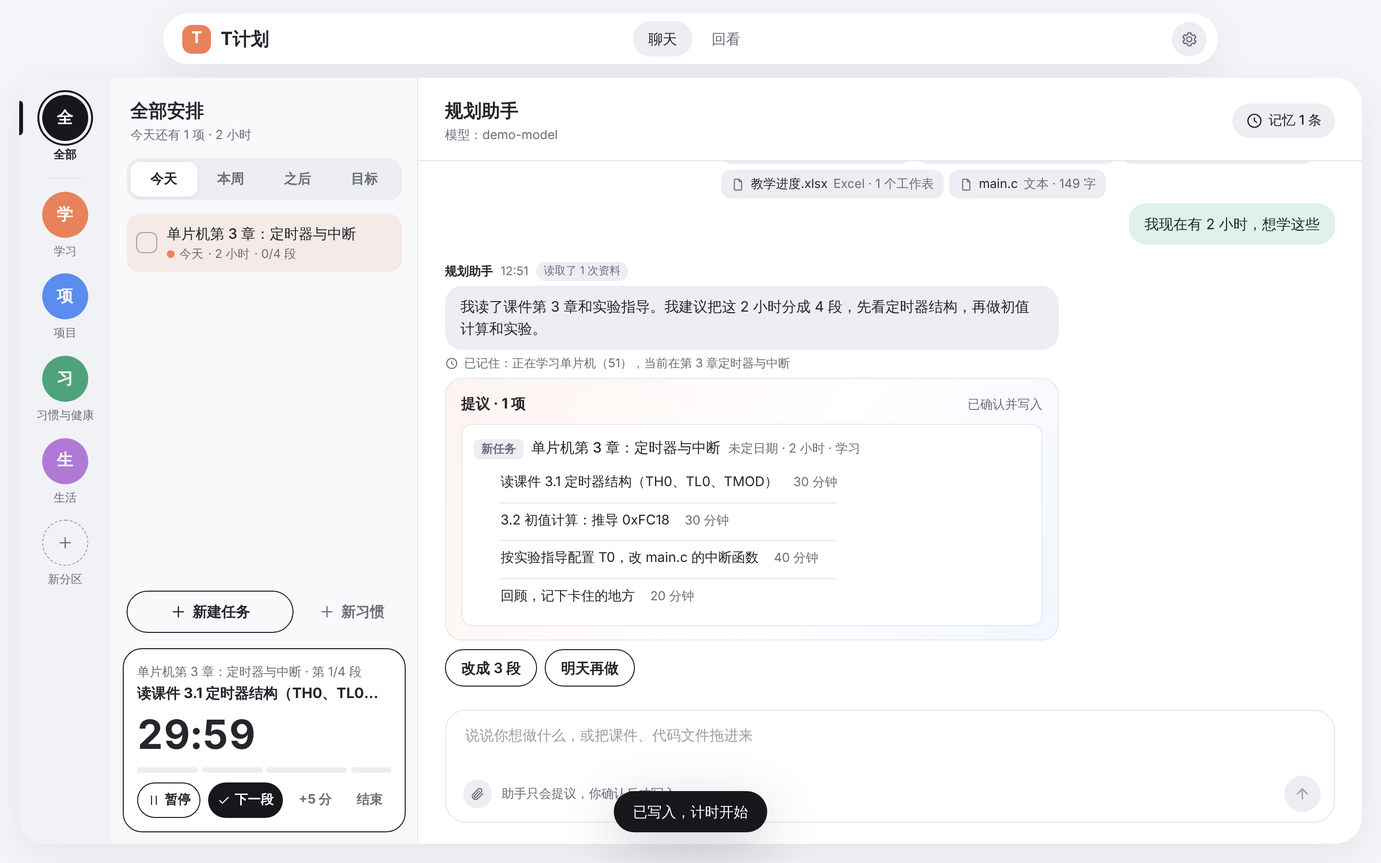
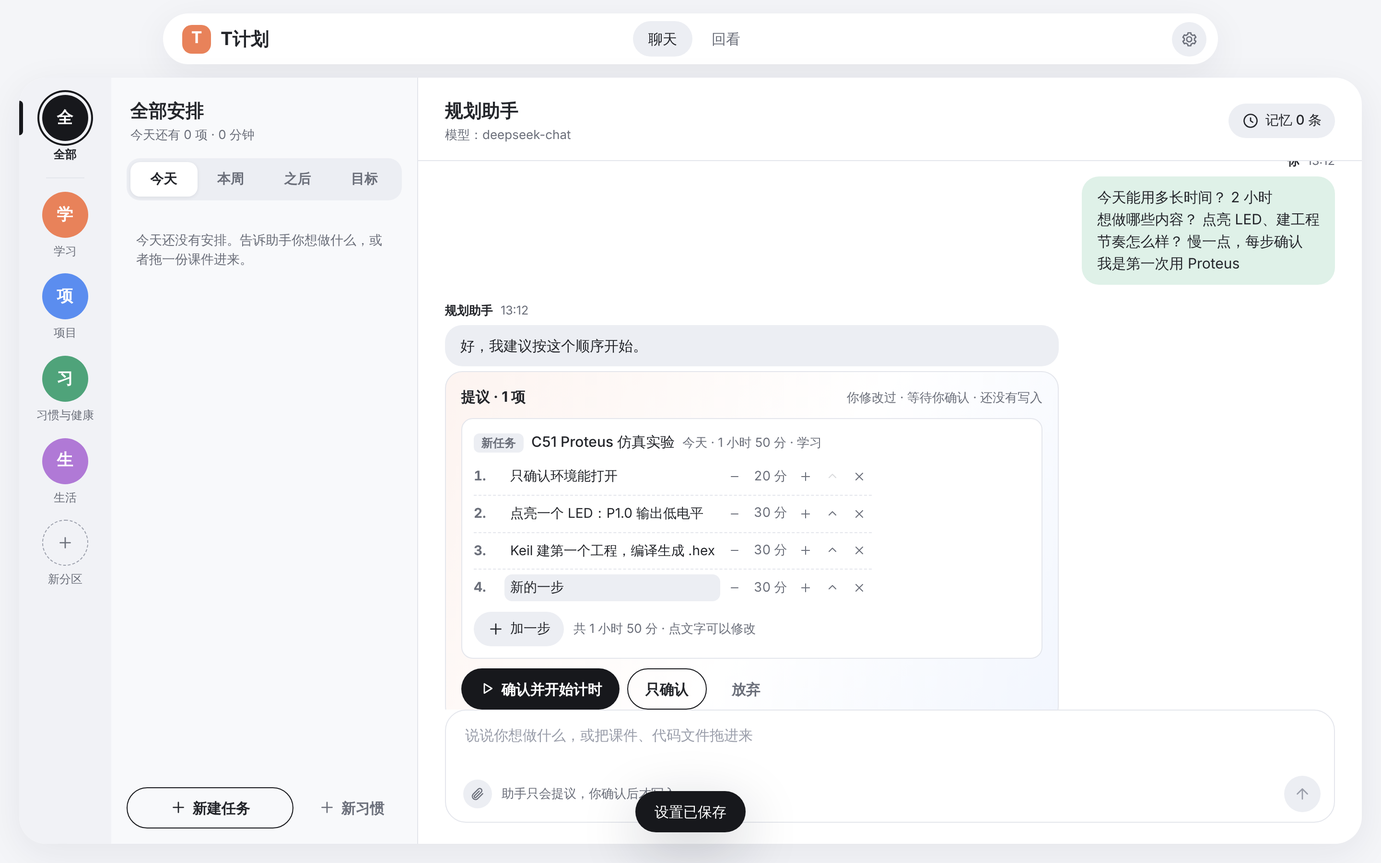
Make proposals editable, add question forms, lighten and compact the timer
Proposed steps are numbered and can be renamed, resized, reordered,
removed or added before confirming. The assistant can ask with a
pick-and-send form. The floating timer is always light and has a
compact mode that keeps the clock, step and two controls.

Claude-Session: https://claude.ai/code/session_01TEYLhYgaF7d7PWbA7WbdHM

diff --git a/v4/js/app.js b/v4/js/app.js
@@ -14,6 +14,9 @@
   const library = new Map(); // files read during this session, by name; kept out of saved state because they are large
   let pip = null; // floating timer window, when open
   let dueNotified = null;
+  let editing = null; // the proposal step whose title is being edited: { message, action, step }
+  const answers = new Map(); // unsent picks in question forms, by message id
+  let lastChatKey = '';
 
   /* ---------- storage ---------- */
   function loadState() {
@@ -71,6 +74,10 @@
     close: 'M6 6l12 12M18 6L6 18',
     pop: 'M14 4h6v6M20 4l-8 8M18 14v5a1 1 0 0 1-1 1H5a1 1 0 0 1-1-1V7a1 1 0 0 1 1-1h5',
     file: 'M14 3H7a1 1 0 0 0-1 1v16a1 1 0 0 0 1 1h10a1 1 0 0 0 1-1V7Zm0 0v4h4',
+    minus: 'M6 12h12',
+    up: 'M6 14l6-6 6 6',
+    shrink: 'M5 19h14',
+    grow: 'M8 4H4v4M16 20h4v-4M4 4l6 6M20 20l-6-6',
   };
   function icon(name) {
     const svg = document.createElementNS('http://www.w3.org/2000/svg', 'svg');
@@ -242,12 +249,37 @@
     const sp = a.spaceId ? ' · ' + (space(a.spaceId) || {}).name : '';
     return dateLabel(a.date) + ' · ' + minutesLabel(a.minutes) + sp;
   }
-  const stepList = (steps) => h('ol', { class: 'steps' }, steps.map((s) => h('li', {}, h('span', {}, s.title), h('span', { class: 'sub' }, s.minutes + ' 分钟'))));
-  function actionItem(a) {
+  const stepList = (steps) => h('ol', { class: 'steps' }, steps.map((s, i) => h('li', {}, h('span', { class: 'num' }, i + 1 + '.'), h('span', { class: 'step-title' }, s.title), h('span', { class: 'sub' }, s.minutes + ' 分钟'))));
+  /* The same list with controls: rename, change minutes, reorder, remove, add. */
+  function editableSteps(message, index, a) {
+    const steps = a.steps || [{ title: a.title, minutes: a.minutes }];
+    const edit = (op) => { try { commit(C.editProposal(state, message.id, index, op)); } catch (error) { toast(error.message); } };
+    const mini = (label, glyph, onclick, disabled) => h('button', { class: 'mini', 'aria-label': label, title: label, onclick, disabled }, icon(glyph));
+    const isEditing = (i) => editing && editing.message === message.id && editing.action === index && editing.step === i;
+    const titleInput = (s, i) => h('input', {
+      class: 'step-input', value: s.title, maxLength: 100, 'aria-label': '第 ' + (i + 1) + ' 步的内容',
+      onkeydown: (e) => { if (e.key === 'Enter') e.target.blur(); if (e.key === 'Escape') { editing = null; render(); } },
+      onblur: (e) => { if (!editing) return; editing = null; if (e.target.value.trim() && e.target.value.trim() !== s.title) edit({ kind: 'title', step: i, title: e.target.value }); else render(); },
+    });
+    return h('div', { class: 'steps-edit' },
+      h('ol', { class: 'steps' }, steps.map((s, i) => h('li', {},
+        h('span', { class: 'num' }, i + 1 + '.'),
+        isEditing(i) ? titleInput(s, i) : h('button', { class: 'step-title editable', title: '点击修改', onclick: () => { editing = { message: message.id, action: index, step: i }; render(); } }, s.title),
+        h('span', { class: 'step-tools' },
+          mini('减少 5 分钟', 'minus', () => edit({ kind: 'minutes', step: i, delta: -5 }), s.minutes <= 5),
+          h('span', { class: 'step-min' }, s.minutes + ' 分'),
+          mini('增加 5 分钟', 'plus', () => edit({ kind: 'minutes', step: i, delta: 5 })),
+          mini('上移', 'up', () => edit({ kind: 'move', step: i, dir: -1 }), i === 0),
+          mini('删除这一步', 'close', () => edit({ kind: 'remove', step: i }), steps.length <= 1))))),
+      h('div', { class: 'steps-foot' },
+        h('button', { class: 'pill soft', onclick: () => edit({ kind: 'add' }) }, icon('plus'), '加一步'),
+        h('span', { class: 'sub' }, '共 ' + minutesLabel(steps.reduce((n, s) => n + s.minutes, 0)) + ' · 点文字可以修改')));
+  }
+  function actionItem(a, index, message) {
     const name = (id) => (state.tasks.find((t) => t.id === id) || {}).title || '（任务已不存在）';
     const line = (kind, title, meta, extra) => h('li', {},
       h('div', { class: 'p-line' }, h('span', { class: 'tag t-' + a.type }, kind), h('span', { class: 'p-title' }, title), meta ? h('span', { class: 'sub' }, meta) : null), extra);
-    if (a.type === 'add_task') return line('新任务', a.title, taskSummary(a), a.steps ? stepList(a.steps) : null);
+    if (a.type === 'add_task') return line('新任务', a.title, taskSummary(a), message.proposal.status === 'pending' ? editableSteps(message, index, a) : a.steps ? stepList(a.steps) : null);
     if (a.type === 'update_task') {
       const parts = [];
       if (a.title !== undefined) parts.push('改名为「' + a.title + '」');
@@ -281,8 +313,8 @@
       } catch (error) { toast(error.message); }
     };
     return h('div', { class: 'proposal ' + p.status },
-      h('div', { class: 'proposal-head' }, h('strong', {}, '提议 · ' + p.actions.length + ' 项'), h('span', { class: 'sub' }, status)),
-      h('ul', { class: 'p-list' }, p.actions.map(actionItem)),
+      h('div', { class: 'proposal-head' }, h('strong', {}, '提议 · ' + p.actions.length + ' 项'), h('span', { class: 'sub' }, (p.edited ? '你修改过 · ' : '') + status)),
+      h('ul', { class: 'p-list' }, p.actions.map((a, i) => actionItem(a, i, message))),
       p.status === 'pending' ? h('div', { class: 'proposal-actions' },
         canTime ? h('button', { class: 'btn dark', onclick: () => resolve(true, true) }, icon('play'), '确认并开始计时') : null,
         h('button', { class: canTime ? 'btn outline slim' : 'btn dark', onclick: () => resolve(true, false) }, canTime ? '只确认' : '确认写入'),
@@ -301,6 +333,34 @@
     }
     send(option.label);
   }
+  /* A form the assistant can ask with: pick options, optionally add a note, send once. */
+  function questionCard(m, isLast) {
+    const live = isLast && !m.answered && !ui.busy;
+    if (!answers.has(m.id)) answers.set(m.id, { picks: m.questions.map(() => []), note: '' });
+    const draft = answers.get(m.id);
+    const ready = () => draft.picks.every((p) => p.length) || draft.note.trim();
+    const submit = () => {
+      if (!ready()) return toast('请先选择，或者写一句补充');
+      const lines = m.questions.map((q, i) => (draft.picks[i].length ? q.question + ' ' + draft.picks[i].join('、') : null)).filter(Boolean);
+      if (draft.note.trim()) lines.push(draft.note.trim());
+      answers.delete(m.id);
+      if (change((s) => { s.messages.find((x) => x.id === m.id).answered = true; })) send(lines.join('\n'));
+    };
+    return h('div', { class: 'ask' + (live ? '' : ' closed') },
+      m.questions.map((q, i) => h('fieldset', { class: 'ask-q', disabled: !live },
+        h('legend', {}, h('span', { class: 'num' }, i + 1 + '.'), q.question, q.multi ? h('span', { class: 'sub' }, ' 可多选') : null),
+        h('div', { class: 'ask-options' }, q.options.map((option) => {
+          const on = draft.picks[i].includes(option);
+          return h('button', { class: 'pill pick' + (on ? ' on' : ''), 'aria-pressed': String(on), onclick: () => {
+            draft.picks[i] = q.multi ? (on ? draft.picks[i].filter((x) => x !== option) : [...draft.picks[i], option]) : (on ? [] : [option]);
+            render();
+          } }, on ? icon('check') : null, option);
+        })))),
+      live ? h('div', { class: 'ask-foot' },
+        h('input', { class: 'ask-note', placeholder: '想补充的话写在这里（可以不写）', maxLength: 300, value: draft.note,
+          oninput: (e) => { draft.note = e.target.value; }, onkeydown: (e) => { if (e.key === 'Enter' && !e.isComposing) submit(); } }),
+        h('button', { class: 'btn dark', onclick: submit }, '发送')) : h('span', { class: 'sub' }, m.answered ? '已回答' : '已跳过'));
+  }
   function messageRow(m, isLast) {
     const mine = m.role === 'user';
     return h('div', { class: 'msg ' + (mine ? 'mine' : 'theirs') },
@@ -311,11 +371,15 @@
       m.text ? h('div', { class: 'bubble' + (m.error ? ' error' : '') }, m.text) : null,
       m.learned ? h('div', { class: 'learned' }, icon('brain'), '已记住：' + m.learned.join('；')) : null,
       m.proposal ? proposalCard(m) : null,
+      m.questions ? questionCard(m, isLast) : null,
       isLast && m.options && !ui.busy ? h('div', { class: 'options' }, m.options.map((o) => h('button', { class: 'pill option', onclick: () => chooseOption(o) }, o.label))) : null);
   }
   function renderChat() {
     const model = modelName();
     const last = state.messages.length - 1;
+    const previous = $('#chatScroll');
+    const offset = previous ? previous.scrollTop : 0;
+    const chatKey = state.messages.length + ':' + ui.busy + ':' + ui.busyText;
     const scroller = h('div', { class: 'chat-scroll', id: 'chatScroll' },
       state.messages.map((m, i) => messageRow(m, i === last)),
       ui.busy ? h('div', { class: 'msg theirs' }, h('div', { class: 'bubble typing', role: 'status' }, h('i'), h('i'), h('i'), ui.busyText ? h('span', { class: 'sub' }, ui.busyText) : null)) : null);
@@ -346,7 +410,10 @@
           h('button', { class: 'send', id: 'send', 'aria-label': '发送', onclick: () => send() }, icon('send')))),
       h('div', { class: 'drop-hint' }, icon('file'), '松开，把文件交给助手'));
     updateSend();
-    scroller.scrollTop = scroller.scrollHeight;
+    scroller.scrollTop = previous && chatKey === lastChatKey ? offset : scroller.scrollHeight;
+    lastChatKey = chatKey;
+    const stepInput = main.querySelector('.step-input');
+    if (stepInput) { stepInput.focus(); stepInput.select(); }
   }
   function updateSend() {
     const button = $('#send');
@@ -428,7 +495,8 @@
       const actions = checked.actions.filter((a) => a.type !== 'remember');
       if (actions.length) message.proposal = { status: 'pending', source: message.source, actions, startTimer: answer.startTimer };
       if (checked.rejected.length) message.text += '\n（有 ' + checked.rejected.length + ' 项提议格式不对，已忽略。）';
-      if (answer.options.length) message.options = answer.options.map((label) => ({ label }));
+      if (answer.questions.length) message.questions = answer.questions;
+      else if (answer.options.length) message.options = answer.options.map((label) => ({ label }));
       if (answer.toolCalls) message.toolCalls = answer.toolCalls;
       s.messages.push(message);
       if (s.messages.length > 400) s.messages = s.messages.slice(-400);
@@ -444,8 +512,11 @@
   async function openFloating() {
     if (pip || !('documentPictureInPicture' in window)) return;
     try {
-      const win = await window.documentPictureInPicture.requestWindow({ width: 340, height: 250 });
+      const compact = state.settings.prefs.timerCompact;
+      const win = await window.documentPictureInPicture.requestWindow({ width: compact ? 300 : 340, height: compact ? 84 : 250 });
       for (const link of document.querySelectorAll('link[rel=stylesheet]')) win.document.head.append(link.cloneNode());
+      win.document.documentElement.className = 'light'; // the floating timer stays light whatever the system theme
+      win.document.title = '计时';
       win.document.body.className = 'pip-body';
       win.addEventListener('pagehide', () => { pip = null; renderDock(); });
       pip = win;
@@ -484,12 +555,28 @@
     if (!view) { inPage.hidden = true; inPage.replaceChildren(); return; }
     const button = (label, cls, onclick, glyph) => h('button', { class: 'btn ' + cls, onclick }, glyph ? icon(glyph) : null, label);
     const last = view.index === view.total - 1;
-    const content = h('div', { class: 'dock-card' },
+    const compact = state.settings.prefs.timerCompact;
+    const setCompact = (value) => {
+      if (pip) { try { pip.resizeTo(value ? 300 : 340, value ? 84 + (pip.outerHeight - pip.innerHeight) : 250 + (pip.outerHeight - pip.innerHeight)); } catch { /* size stays as the user left it */ } }
+      change((s) => { s.settings.prefs.timerCompact = value; });
+    };
+    const iconButton = (label, glyph, onclick, cls) => h('button', { class: 'icon-btn small ' + (cls || ''), 'aria-label': label, title: label, onclick }, icon(glyph));
+    const content = compact ? h('div', { class: 'dock-card compact' },
+      h('div', { class: 'dock-row' },
+        h('div', { class: 'dock-time', id: 'dockTime' }),
+        h('div', { class: 'dock-titles' }, h('span', { class: 'sub' }, '第 ' + (view.index + 1) + '/' + view.total + ' 段'), h('strong', { class: 'dock-step', title: view.step.title }, view.step.title)),
+        view.running ? iconButton('暂停', 'pause', () => commit(C.pauseTimer(state, Date.now()))) : iconButton('继续', 'play', () => commit(C.resumeTimer(state, Date.now()))),
+        iconButton(last ? '完成' : '下一段', 'check', finishCurrentStep, 'solid'),
+        iconButton('展开', 'grow', () => setCompact(false))),
+      h('div', { class: 'dock-dots', 'aria-hidden': 'true' }, view.task.steps.map((s, i) => h('span', { class: s.done ? 'done' : i === view.index ? 'now' : '', style: 'flex:' + s.minutes }, i === view.index ? h('i', { id: 'dockFill' }) : null))))
+    : h('div', { class: 'dock-card' },
       h('div', { class: 'dock-head' },
         h('div', { class: 'dock-titles' },
           h('span', { class: 'sub' }, view.task.title + ' · 第 ' + (view.index + 1) + '/' + view.total + ' 段'),
           h('strong', { class: 'dock-step' }, view.step.title)),
-        !pip && 'documentPictureInPicture' in window ? h('button', { class: 'icon-btn small', 'aria-label': '打开悬浮窗', title: '悬浮窗', onclick: openFloating }, icon('pop')) : null),
+        h('div', { class: 'dock-corner' },
+          iconButton('最小化', 'shrink', () => setCompact(true)),
+          !pip && 'documentPictureInPicture' in window ? iconButton('打开悬浮窗', 'pop', openFloating) : null)),
       h('div', { class: 'dock-time', id: 'dockTime' }),
       h('div', { class: 'dock-dots', 'aria-hidden': 'true' }, view.task.steps.map((s, i) => h('span', { class: s.done ? 'done' : i === view.index ? 'now' : '', style: 'flex:' + s.minutes }, i === view.index ? h('i', { id: 'dockFill' }) : null))),
       h('div', { class: 'dock-actions' },

diff --git a/v4/js/agent.js b/v4/js/agent.js
@@ -19,7 +19,7 @@
     '',
     '【输出】只输出一个 JSON 对象，不要输出其他文字。两种形式：',
     '1. 需要更多信息时调用一个工具：{"tool":{"name":"工具名","args":{}}}',
-    '2. 最终回答：{"reply":"","actions":[],"options":[],"memory":[],"startTimer":false}',
+    '2. 最终回答：{"reply":"","actions":[],"options":[],"questions":[],"memory":[],"startTimer":false}',
     '',
     '【工具】（只读，每次一个，最多 6 次）',
     'read_attachment {"name":"文件名","offset":0}：继续读取附件，从 offset 字符开始。attachments 里只给了开头，文件更长时用它读后面的内容。',
@@ -36,6 +36,7 @@
     '  {"type":"add_habit","title":"","perWeek":3,"space":""}',
     '  {"type":"add_goal","title":"","deadline":"YYYY-MM-DD 或 null","space":"","milestones":[{"title":"第 1 周：……","due":"YYYY-MM-DD","tasks":[{"title":"","date":"","minutes":60,"steps":[]}]}]}',
     'options：2 到 4 个用户可以直接点击的简短回答（每个不超过 20 个字）。需要用户做选择或补充信息时，一定给出 options，让用户点击而不是打字。',
+    'questions：需要用户回答两件以上的事，或者需要多选时使用，界面会显示成可以点选的表单：[{"question":"问题","options":["选项1","选项2"],"multi":false}]。最多 3 个问题，每个 2 到 5 个选项，multi 为 true 表示可以多选。用户总是可以另外输入文字，所以不要加“其他”选项。用了 questions 就不要再给 options。',
     'memory：从这次对话中学到的、以后长期有用的事实（作息、偏好、限制、正在学的课程、目标）。只写用户明确说过或数据明确显示的，没有就给空数组。不要重复 memory 里已有的内容。',
     'startTimer：用户想现在就开始做时为 true，界面会在确认后自动打开计时窗口并按 steps 分段计时。',
     '',
@@ -44,7 +45,7 @@
     '有附件或代码时：先读内容，steps 必须对应材料里真实的章节、页码、文件或函数。内容不够就用工具继续读，不要猜。',
     '大目标（几周或几个月）：用 add_goal。按周分成 milestones；最近 1 到 2 周的任务写到具体的某一天（需要时带 steps，也就是小时级的安排），更远的周只写任务、date 用 null。每天安排的总时长不要超过 preferences.dailyMinutes。',
     '使用 profile：actualVsPlanned 大于 1.15 说明用户通常比计划慢，要把时间估长一些或内容减少；focusMinutesByTimeOfDay 显示用户哪个时段专注得多，优先安排在那里；typicalFocusMinutes 是用户真实的一段专注时长；difficultyFeedback 里 hard 多就把步骤拆得更小。profile 里没有的数据说明记录还不够，不要假设。',
-    '信息不够时（不知道截止日期、每天有多少时间、基础如何），先问一个问题并给 options，不要一次问很多。',
+    '信息不够时（不知道截止日期、每天有多少时间、基础如何），用 options 问一个问题，或者用 questions 一次问清楚两三件事。不要让用户打字回答可以点选的问题。',
     '',
     '【规则】taskId 只能用 openTasks 里给出的。日期不确定用 null。不要编造用户做过或没做过的事，没有记录就说没有记录。不要从用时推断学习效果。',
   ].join('\n');
@@ -56,6 +57,11 @@
     const start = body.indexOf('{');
     const end = body.lastIndexOf('}');
     const strings = (value, count, max) => (Array.isArray(value) ? value : []).filter((x) => typeof x === 'string' && x.trim()).slice(0, count).map((x) => x.trim().slice(0, max));
+    const questions = (value) => (Array.isArray(value) ? value : []).map((q) => ({
+      question: typeof (q && q.question) === 'string' ? q.question.trim().slice(0, 120) : '',
+      options: strings(q && q.options, 5, 40),
+      multi: !!(q && q.multi === true),
+    })).filter((q) => q.question && q.options.length >= 2).slice(0, 3);
     if (start >= 0 && end > start) {
       try {
         const v = JSON.parse(body.slice(start, end + 1));
@@ -68,13 +74,14 @@
             reply: v.reply.trim().slice(0, 6000),
             actions: Array.isArray(v.actions) ? v.actions : [],
             options: strings(v.options, 4, 40),
+            questions: questions(v.questions),
             memory: strings(v.memory, 5, 300),
             startTimer: v.startTimer === true,
           };
         }
       } catch { /* fall through to plain text */ }
     }
-    return { tool: null, reply: text.slice(0, 6000) || '（模型没有返回内容）', actions: [], options: [], memory: [], startTimer: false };
+    return { tool: null, reply: text.slice(0, 6000) || '（模型没有返回内容）', actions: [], options: [], questions: [], memory: [], startTimer: false };
   }
 
   function attachmentSummary(file) {
@@ -97,7 +104,7 @@
       const answer = parseReply(await chat(SYSTEM_PROMPT, JSON.stringify(payload)));
       if (!answer.tool) return { ...answer, toolCalls: toolResults.length };
       if (step >= MAX_TOOL_STEPS) {
-        return { tool: null, reply: '我读取了很多次资料还没有得出结论。请告诉我最想先安排哪一部分。', actions: [], options: [], memory: [], startTimer: false, toolCalls: toolResults.length };
+        return { tool: null, reply: '我读取了很多次资料还没有得出结论。请告诉我最想先安排哪一部分。', actions: [], options: [], questions: [], memory: [], startTimer: false, toolCalls: toolResults.length };
       }
       const { name, args } = answer.tool;
       onStep(name, args);

diff --git a/v4/styles.css b/v4/styles.css
@@ -8,7 +8,7 @@
   color-scheme: light;
 }
 @media (prefers-color-scheme: dark) {
-  :root {
+  :root:not(.light) {
     --canvas: #131418; --panel: #1c1d22; --rail: #17181c; --list: #1a1b20; --soft: #282a31; --line: #30323a;
     --ink: #f2f3f5; --text: #e6e7ea; --t2: #a2a6b1; --t3: #767a86;
     --mine: #24493a; --bad-soft: #43231e;
@@ -255,3 +255,47 @@ body.dragging .drop-hint { display: flex; }
 .pip-body .dock-card { border: 0; border-radius: 0; box-shadow: none; min-height: 100vh; }
 .segmented button { font-size: 14px; }
 
+
+/* ----- numbered, editable steps ----- */
+.steps { list-style: none; padding: 0; gap: 0; }
+.steps li { display: flex; align-items: center; gap: 8px; padding: 5px 0; min-height: 34px; }
+.steps li + li { border-top: 1px dashed var(--line); }
+.num { flex: none; min-width: 22px; color: var(--t2); font-weight: 650; font-variant-numeric: tabular-nums; }
+.step-title { flex: 1; min-width: 0; text-align: left; overflow-wrap: anywhere; }
+.steps li > .sub { flex: none; }
+.step-title.editable { padding: 3px 6px; margin: 0 -6px; border-radius: 8px; }
+.step-title.editable:hover { background: var(--soft); }
+.step-input { flex: 1; min-width: 0; padding: 4px 8px; border-radius: 8px; border: 1.5px solid var(--ink); background: var(--panel); }
+.step-tools { flex: none; display: flex; align-items: center; gap: 2px; }
+.step-min { min-width: 44px; text-align: center; font-size: 13.5px; font-variant-numeric: tabular-nums; color: var(--t2); }
+.mini { display: grid; place-items: center; width: 26px; height: 26px; border-radius: 50%; color: var(--t2); }
+.mini:hover:not(:disabled) { background: var(--soft); color: var(--text); }
+.mini:disabled { opacity: .25; }
+.mini .icon { width: 14px; height: 14px; }
+.steps-foot { display: flex; align-items: center; gap: 10px; margin-top: 6px; flex-wrap: wrap; }
+.steps.boxed { padding: 6px 12px; }
+.steps.boxed li.done .step-title { color: var(--t3); text-decoration: line-through; }
+
+/* ----- question form ----- */
+.ask { align-self: stretch; display: flex; flex-direction: column; gap: 12px; padding: 14px 16px; border-radius: 18px; border: 1px solid var(--line); background: var(--panel); min-width: min(460px, 100%); }
+.ask.closed { opacity: .6; }
+.ask-q { border: 0; padding: 0; margin: 0; display: flex; flex-direction: column; gap: 8px; min-width: 0; }
+.ask-q legend { padding: 0; font-weight: 650; display: flex; gap: 6px; align-items: baseline; flex-wrap: wrap; }
+.ask-options { display: flex; flex-wrap: wrap; gap: 8px; }
+.pill.pick { border: 1.5px solid var(--line); color: var(--text); background: var(--panel); padding: 6px 14px; font-weight: 550; }
+.pill.pick:hover:not(:disabled) { border-color: var(--t3); }
+.pill.pick.on { border-color: var(--ink); background: var(--ink); color: var(--panel); }
+.pill.pick .icon { width: 14px; height: 14px; stroke-width: 2.6; }
+.ask-foot { display: flex; gap: 8px; }
+.ask-note { flex: 1; min-width: 0; padding: 8px 14px; border-radius: 999px; border: 1px solid var(--line); background: var(--list); }
+
+/* ----- timer: corner buttons and compact mode ----- */
+.dock-corner { display: flex; gap: 4px; flex: none; }
+.icon-btn.solid { background: var(--ink); color: var(--panel); }
+.icon-btn.solid:hover { background: var(--ink); color: var(--panel); opacity: .85; }
+.dock-card.compact { gap: 8px; padding: 10px 12px; }
+.dock-row { display: flex; align-items: center; gap: 8px; }
+.dock-card.compact .dock-time { font-size: 26px; flex: none; }
+.dock-card.compact .dock-titles { flex: 1; }
+.dock-card.compact .dock-dots { height: 4px; }
+.pip-body .dock-card.compact { justify-content: center; }

diff --git a/v4/js/core.js b/v4/js/core.js
@@ -50,7 +50,7 @@
       timer: null,
       settings: {
         agent: { provider: 'openai', baseUrl: '', modelId: '' },
-        prefs: { segment: 25, dailyMinutes: null, bestTime: null, onboarded: false },
+        prefs: { segment: 25, dailyMinutes: null, bestTime: null, onboarded: false, timerCompact: false },
       },
     };
   }
@@ -255,6 +255,36 @@
     p.status = 'accepted';
     p.resolvedAt = now;
     p.created = created;
+    return s;
+  }
+
+  /* Lets the user adjust the steps of a proposed task before confirming it. Returns a new state. */
+  function editProposal(state, messageId, actionIndex, op) {
+    const s = clone(state);
+    const message = s.messages.find((m) => m.id === messageId);
+    if (!message || !message.proposal || message.proposal.status !== 'pending') throw new Error('这份提议已经处理过了');
+    const a = message.proposal.actions[actionIndex];
+    if (!a || a.type !== 'add_task') throw new Error('这一项不能修改');
+    if (!a.steps) a.steps = [{ title: a.title, minutes: Math.min(180, a.minutes) }];
+    const step = a.steps[op.step];
+    if (op.kind !== 'add' && !step) throw new Error('这一步已经不存在');
+    if (op.kind === 'minutes') step.minutes = Math.min(180, Math.max(5, step.minutes + op.delta));
+    else if (op.kind === 'title') {
+      const title = cleanText(op.title, 100);
+      if (!title) throw new Error('步骤内容不能为空');
+      step.title = title;
+    } else if (op.kind === 'remove') {
+      if (a.steps.length <= 1) throw new Error('至少保留一步');
+      a.steps.splice(op.step, 1);
+    } else if (op.kind === 'move') {
+      const to = op.step + op.dir;
+      if (to >= 0 && to < a.steps.length) a.steps.splice(to, 0, a.steps.splice(op.step, 1)[0]);
+    } else if (op.kind === 'add') {
+      if (a.steps.length >= MAX_STEPS) throw new Error('最多 ' + MAX_STEPS + ' 步');
+      a.steps.push({ title: cleanText(op.title, 100) || '新的一步', minutes: s.settings.prefs.segment || 25 });
+    } else throw new Error('不支持的修改');
+    a.minutes = sum(a.steps, (x) => x.minutes);
+    message.proposal.edited = true;
     return s;
   }
 
@@ -493,6 +523,7 @@
           : '现在是本地模式（没有连接 AI 模型），我把每一行当作一件事。请检查下面的提议。',
       actions,
       options: [],
+      questions: [],
       memory: [],
       startTimer: !!planned && lines.length === 1,
     };
@@ -501,7 +532,7 @@
   return {
     VERSION, SPACE_COLORS,
     clone, uid, todayISO, validDate, addDays, weekStart,
-    emptyState, normalize, validateActions, resolveProposal, addMemory,
+    emptyState, normalize, validateActions, resolveProposal, editProposal, addMemory,
     habitWeekCount, timerElapsed, timerView, startTimer, pauseTimer, resumeTimer, extendTimer, finishStep, stopTimer,
     buildProfile, buildContext, history, parseLine, splitIntoSteps, localReply,
   };
